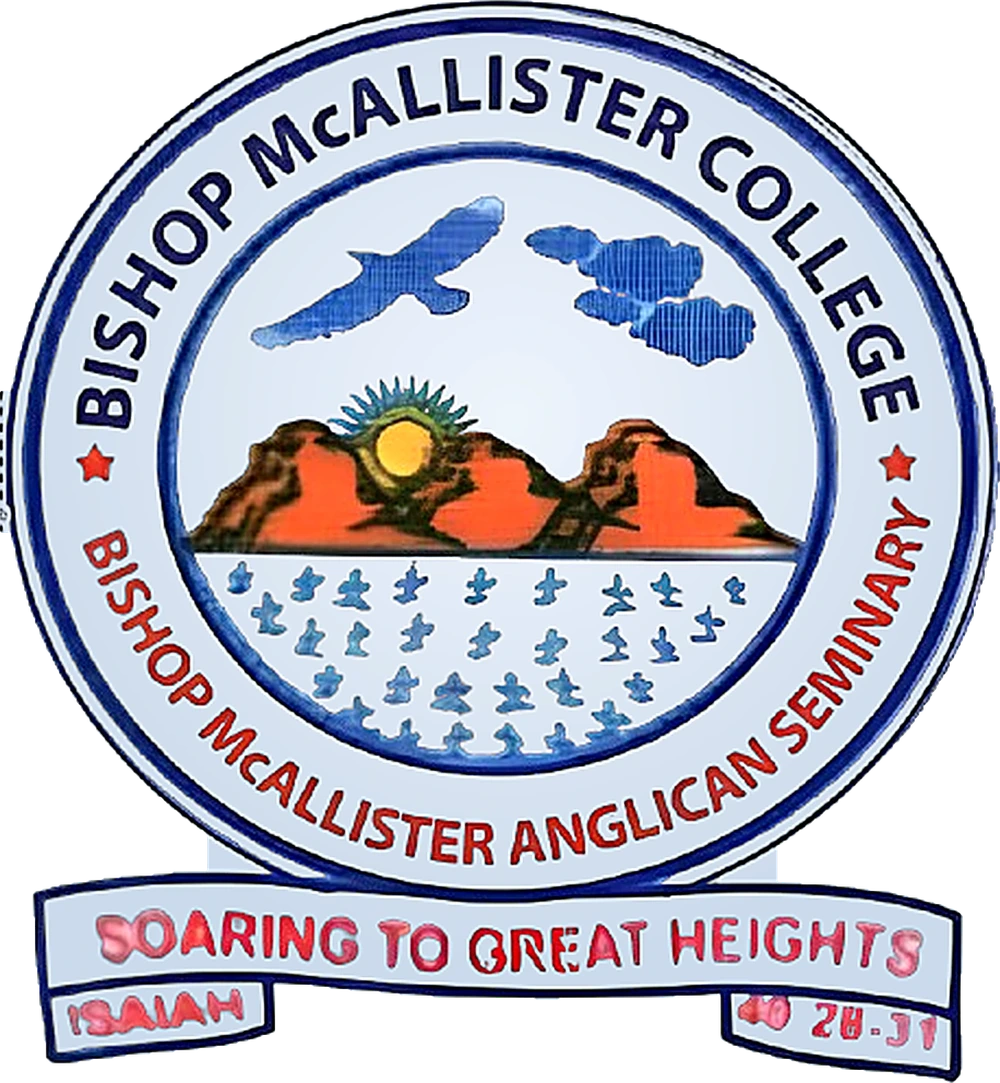
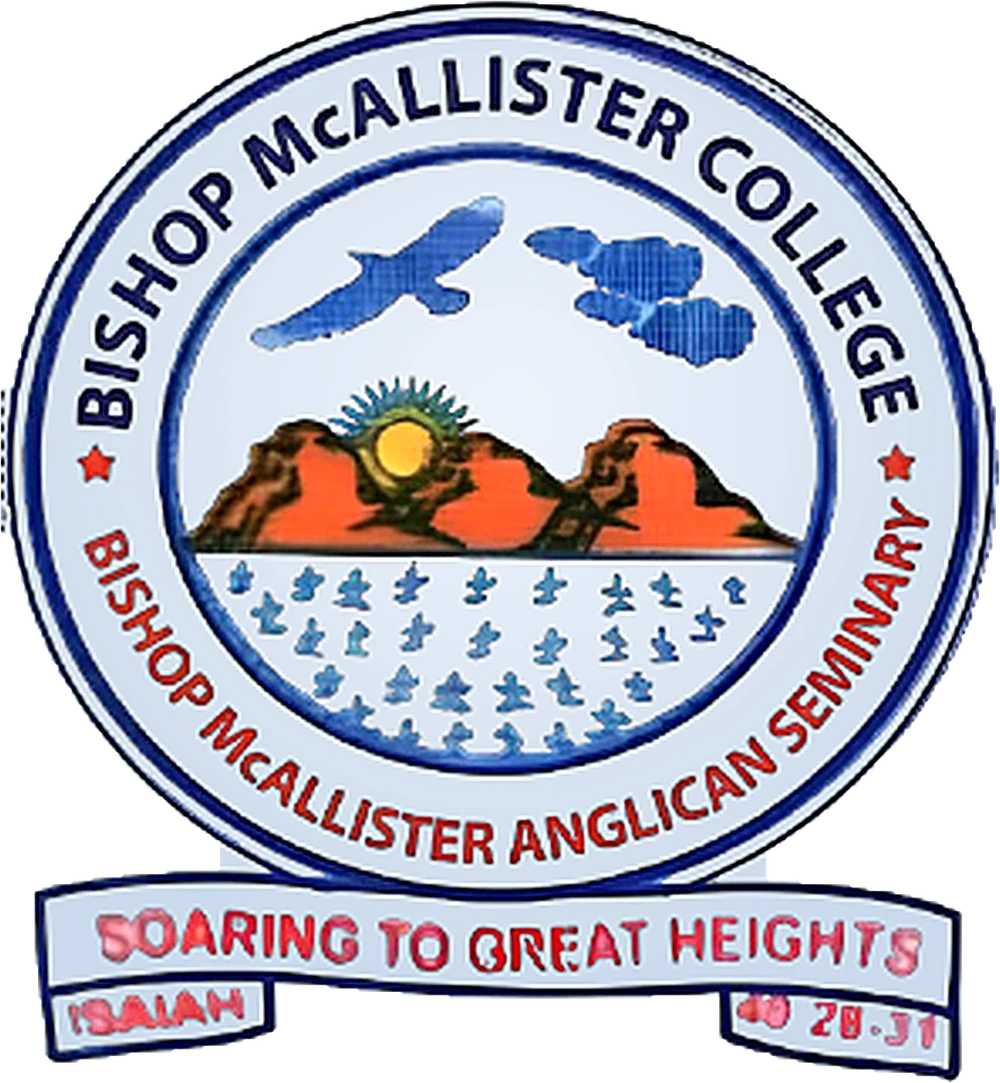
Use updated crest image

diff --git a/index.html b/index.html
@@ -12,7 +12,7 @@
 <link rel="preconnect" href="https://fonts.googleapis.com">
 <link rel="preconnect" href="https://fonts.gstatic.com" crossorigin>
 <link href="https://fonts.googleapis.com/css2?family=Fraunces:ital,wght@0,400;0,500;0,600;0,700;1,500&family=Karla:wght@400;500;600;700;800&display=swap" rel="stylesheet">
-<link rel="stylesheet" href="assets/css/style.css?v=20260923g">
+<link rel="stylesheet" href="assets/css/style.css?v=20260923h">
 </head>
 <body>
 <a class="skip-link" href="#main">Skip to main content</a>
@@ -20,7 +20,7 @@
 <header class="site-header">
   <div class="container nav-bar">
     <a class="brand" href="index.html">
-      <img src="assets/images/bmck-crest-sm.webp?v=20260923g" alt="Bishop McAllister College Kyogyera crest" width="44" height="44">
+      <img src="assets/images/bmck-crest-sm.webp?v=20260923h" alt="Bishop McAllister College Kyogyera crest" width="44" height="44">
       <span class="brand-text"><strong>Bishop McAllister College</strong><span>Kyogyera &middot; Est. 1983</span></span>
     </a>
     <nav class="nav-links" id="nav-links">
@@ -61,7 +61,7 @@
       </div>
       <div class="hero-crest-wrap">
         <div class="hero-crest-glow" aria-hidden="true"></div>
-        <img class="hero-crest" src="assets/images/bmck-crest-hd.webp?v=20260923g" alt="Bishop McAllister College crest: a soaring bird over the hills of western Uganda, with a rising sun and the school motto">
+        <img class="hero-crest" src="assets/images/bmck-crest-hd.webp?v=20260923h" alt="Bishop McAllister College crest: a soaring bird over the hills of western Uganda, with a rising sun and the school motto">
       </div>
     </div>
     <div class="ridge" aria-hidden="true">
@@ -93,7 +93,7 @@
         </a>
       </div>
       <div class="badge-figure reveal">
-        <img src="assets/images/bmck-crest-hd.webp?v=20260923g" alt="Bishop McAllister College crest">
+        <img src="assets/images/bmck-crest-hd.webp?v=20260923h" alt="Bishop McAllister College crest">
       </div>
     </div>
   </section>
@@ -278,7 +278,7 @@
     <div class="footer-grid">
       <div>
         <div class="footer-brand">
-          <img src="assets/images/bmck-crest-sm.webp?v=20260923g" alt="BMCK crest">
+          <img src="assets/images/bmck-crest-sm.webp?v=20260923h" alt="BMCK crest">
           <span><strong>Bishop McAllister College</strong><span>Kyogyera Anglican Seminary</span></span>
         </div>
         <p>A Christ-centred, co-educational boarding secondary school in Kyogyera, western Uganda &mdash; founded 1983 by the Anglican Diocese of West Ankole.</p>
@@ -333,6 +333,6 @@
 
 <button class="to-top" aria-label="Back to top"><svg viewBox="0 0 24 24" fill="none" stroke="currentColor" stroke-width="2" stroke-linecap="round" stroke-linejoin="round"><path d="M12 19V5M5 12l7-7 7 7"/></svg></button>
 
-<script src="assets/js/main.js?v=20260923g"></script>
+<script src="assets/js/main.js?v=20260923h"></script>
 </body>
 </html>

diff --git a/memories.html b/memories.html
@@ -12,7 +12,7 @@
 <link rel="preconnect" href="https://fonts.googleapis.com">
 <link rel="preconnect" href="https://fonts.gstatic.com" crossorigin>
 <link href="https://fonts.googleapis.com/css2?family=Fraunces:ital,wght@0,400;0,500;0,600;0,700;1,500&family=Karla:wght@400;500;600;700;800&display=swap" rel="stylesheet">
-<link rel="stylesheet" href="assets/css/style.css?v=20260923g">
+<link rel="stylesheet" href="assets/css/style.css?v=20260923h">
 </head>
 <body>
 <a class="skip-link" href="#main">Skip to main content</a>
@@ -20,7 +20,7 @@
 <header class="site-header">
   <div class="container nav-bar">
     <a class="brand" href="index.html">
-      <img src="assets/images/bmck-crest-sm.webp?v=20260923g" alt="Bishop McAllister College Kyogyera crest" width="44" height="44">
+      <img src="assets/images/bmck-crest-sm.webp?v=20260923h" alt="Bishop McAllister College Kyogyera crest" width="44" height="44">
       <span class="brand-text"><strong>Bishop McAllister College</strong><span>Kyogyera &middot; Est. 1983</span></span>
     </a>
     <nav class="nav-links" id="nav-links">
@@ -89,7 +89,7 @@
   <section class="section-tight">
     <div class="container">
       <div class="mem-intro reveal">
-        <img src="assets/images/bmck-crest-sm.webp?v=20260923g" alt="Bishop McAllister College Kyogyera crest" width="120" height="120">
+        <img src="assets/images/bmck-crest-sm.webp?v=20260923h" alt="Bishop McAllister College Kyogyera crest" width="120" height="120">
         <p>&ldquo;They shall mount up with wings as eagles; they shall run, and not be weary.&rdquo; Many of us have run up and down this hill, in the Resurrection Race, to chapel and to the pitch. These are some of those moments.
           <cite>Isaiah 40:31 &middot; Soaring to Great Heights</cite></p>
       </div>
@@ -417,7 +417,7 @@
     <div class="footer-grid">
       <div>
         <div class="footer-brand">
-          <img src="assets/images/bmck-crest-sm.webp?v=20260923g" alt="BMCK crest">
+          <img src="assets/images/bmck-crest-sm.webp?v=20260923h" alt="BMCK crest">
           <span><strong>Bishop McAllister College</strong><span>Kyogyera Anglican Seminary</span></span>
         </div>
         <p>A Christ-centred, co-educational boarding secondary school in Kyogyera, western Uganda &mdash; founded 1983 by the Anglican Diocese of West Ankole.</p>
@@ -472,7 +472,7 @@
 
 <button class="to-top" aria-label="Back to top"><svg viewBox="0 0 24 24" fill="none" stroke="currentColor" stroke-width="2" stroke-linecap="round" stroke-linejoin="round"><path d="M12 19V5M5 12l7-7 7 7"/></svg></button>
 
-<script src="assets/js/main.js?v=20260923g"></script>
-<script src="assets/js/memories.js?v=20260923g"></script>
+<script src="assets/js/main.js?v=20260923h"></script>
+<script src="assets/js/memories.js?v=20260923h"></script>
 </body>
 </html>

diff --git a/about.html b/about.html
@@ -12,7 +12,7 @@
 <link rel="preconnect" href="https://fonts.googleapis.com">
 <link rel="preconnect" href="https://fonts.gstatic.com" crossorigin>
 <link href="https://fonts.googleapis.com/css2?family=Fraunces:ital,wght@0,400;0,500;0,600;0,700;1,500&family=Karla:wght@400;500;600;700;800&display=swap" rel="stylesheet">
-<link rel="stylesheet" href="assets/css/style.css?v=20260923g">
+<link rel="stylesheet" href="assets/css/style.css?v=20260923h">
 </head>
 <body>
 <a class="skip-link" href="#main">Skip to main content</a>
@@ -20,7 +20,7 @@
 <header class="site-header">
   <div class="container nav-bar">
     <a class="brand" href="index.html">
-      <img src="assets/images/bmck-crest-sm.webp?v=20260923g" alt="Bishop McAllister College Kyogyera crest" width="44" height="44">
+      <img src="assets/images/bmck-crest-sm.webp?v=20260923h" alt="Bishop McAllister College Kyogyera crest" width="44" height="44">
       <span class="brand-text"><strong>Bishop McAllister College</strong><span>Kyogyera &middot; Est. 1983</span></span>
     </a>
     <nav class="nav-links" id="nav-links">
@@ -146,7 +146,7 @@
   <section class="section">
     <div class="container split">
       <div class="badge-figure reveal" style="order:2;">
-        <img src="assets/images/bmck-crest-hd.webp?v=20260923g" alt="Bishop McAllister College crest with bird, hills, sun and crosses">
+        <img src="assets/images/bmck-crest-hd.webp?v=20260923h" alt="Bishop McAllister College crest with bird, hills, sun and crosses">
       </div>
       <div class="reveal" style="order:1;">
         <span class="eyebrow">Our Crest &amp; Motto</span>
@@ -234,7 +234,7 @@
     <div class="footer-grid">
       <div>
         <div class="footer-brand">
-          <img src="assets/images/bmck-crest-sm.webp?v=20260923g" alt="BMCK crest">
+          <img src="assets/images/bmck-crest-sm.webp?v=20260923h" alt="BMCK crest">
           <span><strong>Bishop McAllister College</strong><span>Kyogyera Anglican Seminary</span></span>
         </div>
         <p>A Christ-centred, co-educational boarding secondary school in Kyogyera, western Uganda &mdash; founded 1983 by the Anglican Diocese of West Ankole.</p>
@@ -281,6 +281,6 @@
 
 <button class="to-top" aria-label="Back to top"><svg viewBox="0 0 24 24" fill="none" stroke="currentColor" stroke-width="2" stroke-linecap="round" stroke-linejoin="round"><path d="M12 19V5M5 12l7-7 7 7"/></svg></button>
 
-<script src="assets/js/main.js?v=20260923g"></script>
+<script src="assets/js/main.js?v=20260923h"></script>
 </body>
 </html>

diff --git a/academics.html b/academics.html
@@ -12,7 +12,7 @@
 <link rel="preconnect" href="https://fonts.googleapis.com">
 <link rel="preconnect" href="https://fonts.gstatic.com" crossorigin>
 <link href="https://fonts.googleapis.com/css2?family=Fraunces:ital,wght@0,400;0,500;0,600;0,700;1,500&family=Karla:wght@400;500;600;700;800&display=swap" rel="stylesheet">
-<link rel="stylesheet" href="assets/css/style.css?v=20260923g">
+<link rel="stylesheet" href="assets/css/style.css?v=20260923h">
 </head>
 <body>
 <a class="skip-link" href="#main">Skip to main content</a>
@@ -20,7 +20,7 @@
 <header class="site-header">
   <div class="container nav-bar">
     <a class="brand" href="index.html">
-      <img src="assets/images/bmck-crest-sm.webp?v=20260923g" alt="Bishop McAllister College Kyogyera crest" width="44" height="44">
+      <img src="assets/images/bmck-crest-sm.webp?v=20260923h" alt="Bishop McAllister College Kyogyera crest" width="44" height="44">
       <span class="brand-text"><strong>Bishop McAllister College</strong><span>Kyogyera &middot; Est. 1983</span></span>
     </a>
     <nav class="nav-links" id="nav-links">
@@ -222,7 +222,7 @@
     <div class="footer-grid">
       <div>
         <div class="footer-brand">
-          <img src="assets/images/bmck-crest-sm.webp?v=20260923g" alt="BMCK crest">
+          <img src="assets/images/bmck-crest-sm.webp?v=20260923h" alt="BMCK crest">
           <span><strong>Bishop McAllister College</strong><span>Kyogyera Anglican Seminary</span></span>
         </div>
         <p>A Christ-centred, co-educational boarding secondary school in Kyogyera, western Uganda &mdash; founded 1983 by the Anglican Diocese of West Ankole.</p>
@@ -269,6 +269,6 @@
 
 <button class="to-top" aria-label="Back to top"><svg viewBox="0 0 24 24" fill="none" stroke="currentColor" stroke-width="2" stroke-linecap="round" stroke-linejoin="round"><path d="M12 19V5M5 12l7-7 7 7"/></svg></button>
 
-<script src="assets/js/main.js?v=20260923g"></script>
+<script src="assets/js/main.js?v=20260923h"></script>
 </body>
 </html>

diff --git a/admissions.html b/admissions.html
@@ -12,7 +12,7 @@
 <link rel="preconnect" href="https://fonts.googleapis.com">
 <link rel="preconnect" href="https://fonts.gstatic.com" crossorigin>
 <link href="https://fonts.googleapis.com/css2?family=Fraunces:ital,wght@0,400;0,500;0,600;0,700;1,500&family=Karla:wght@400;500;600;700;800&display=swap" rel="stylesheet">
-<link rel="stylesheet" href="assets/css/style.css?v=20260923g">
+<link rel="stylesheet" href="assets/css/style.css?v=20260923h">
 </head>
 <body>
 <a class="skip-link" href="#main">Skip to main content</a>
@@ -20,7 +20,7 @@
 <header class="site-header">
   <div class="container nav-bar">
     <a class="brand" href="index.html">
-      <img src="assets/images/bmck-crest-sm.webp?v=20260923g" alt="Bishop McAllister College Kyogyera crest" width="44" height="44">
+      <img src="assets/images/bmck-crest-sm.webp?v=20260923h" alt="Bishop McAllister College Kyogyera crest" width="44" height="44">
       <span class="brand-text"><strong>Bishop McAllister College</strong><span>Kyogyera &middot; Est. 1983</span></span>
     </a>
     <nav class="nav-links" id="nav-links">
@@ -257,7 +257,7 @@
     <div class="footer-grid">
       <div>
         <div class="footer-brand">
-          <img src="assets/images/bmck-crest-sm.webp?v=20260923g" alt="BMCK crest">
+          <img src="assets/images/bmck-crest-sm.webp?v=20260923h" alt="BMCK crest">
           <span><strong>Bishop McAllister College</strong><span>Kyogyera Anglican Seminary</span></span>
         </div>
         <p>A Christ-centred, co-educational boarding secondary school in Kyogyera, western Uganda &mdash; founded 1983 by the Anglican Diocese of West Ankole.</p>
@@ -304,6 +304,6 @@
 
 <button class="to-top" aria-label="Back to top"><svg viewBox="0 0 24 24" fill="none" stroke="currentColor" stroke-width="2" stroke-linecap="round" stroke-linejoin="round"><path d="M12 19V5M5 12l7-7 7 7"/></svg></button>
 
-<script src="assets/js/main.js?v=20260923g"></script>
+<script src="assets/js/main.js?v=20260923h"></script>
 </body>
 </html>

diff --git a/contact.html b/contact.html
@@ -12,7 +12,7 @@
 <link rel="preconnect" href="https://fonts.googleapis.com">
 <link rel="preconnect" href="https://fonts.gstatic.com" crossorigin>
 <link href="https://fonts.googleapis.com/css2?family=Fraunces:ital,wght@0,400;0,500;0,600;0,700;1,500&family=Karla:wght@400;500;600;700;800&display=swap" rel="stylesheet">
-<link rel="stylesheet" href="assets/css/style.css?v=20260923g">
+<link rel="stylesheet" href="assets/css/style.css?v=20260923h">
 </head>
 <body>
 <a class="skip-link" href="#main">Skip to main content</a>
@@ -20,7 +20,7 @@
 <header class="site-header">
   <div class="container nav-bar">
     <a class="brand" href="index.html">
-      <img src="assets/images/bmck-crest-sm.webp?v=20260923g" alt="Bishop McAllister College Kyogyera crest" width="44" height="44">
+      <img src="assets/images/bmck-crest-sm.webp?v=20260923h" alt="Bishop McAllister College Kyogyera crest" width="44" height="44">
       <span class="brand-text"><strong>Bishop McAllister College</strong><span>Kyogyera &middot; Est. 1983</span></span>
     </a>
     <nav class="nav-links" id="nav-links">
@@ -137,7 +137,7 @@
     <div class="footer-grid">
       <div>
         <div class="footer-brand">
-          <img src="assets/images/bmck-crest-sm.webp?v=20260923g" alt="BMCK crest">
+          <img src="assets/images/bmck-crest-sm.webp?v=20260923h" alt="BMCK crest">
           <span><strong>Bishop McAllister College</strong><span>Kyogyera Anglican Seminary</span></span>
         </div>
         <p>A Christ-centred, co-educational boarding secondary school in Kyogyera, western Uganda &mdash; founded 1983 by the Anglican Diocese of West Ankole.</p>
@@ -184,6 +184,6 @@
 
 <button class="to-top" aria-label="Back to top"><svg viewBox="0 0 24 24" fill="none" stroke="currentColor" stroke-width="2" stroke-linecap="round" stroke-linejoin="round"><path d="M12 19V5M5 12l7-7 7 7"/></svg></button>
 
-<script src="assets/js/main.js?v=20260923g"></script>
+<script src="assets/js/main.js?v=20260923h"></script>
 </body>
 </html>

diff --git a/gallery.html b/gallery.html
@@ -12,7 +12,7 @@
 <link rel="preconnect" href="https://fonts.googleapis.com">
 <link rel="preconnect" href="https://fonts.gstatic.com" crossorigin>
 <link href="https://fonts.googleapis.com/css2?family=Fraunces:ital,wght@0,400;0,500;0,600;0,700;1,500&family=Karla:wght@400;500;600;700;800&display=swap" rel="stylesheet">
-<link rel="stylesheet" href="assets/css/style.css?v=20260923g">
+<link rel="stylesheet" href="assets/css/style.css?v=20260923h">
 </head>
 <body>
 <a class="skip-link" href="#main">Skip to main content</a>
@@ -20,7 +20,7 @@
 <header class="site-header">
   <div class="container nav-bar">
     <a class="brand" href="index.html">
-      <img src="assets/images/bmck-crest-sm.webp?v=20260923g" alt="Bishop McAllister College Kyogyera crest" width="44" height="44">
+      <img src="assets/images/bmck-crest-sm.webp?v=20260923h" alt="Bishop McAllister College Kyogyera crest" width="44" height="44">
       <span class="brand-text"><strong>Bishop McAllister College</strong><span>Kyogyera &middot; Est. 1983</span></span>
     </a>
     <nav class="nav-links" id="nav-links">
@@ -126,7 +126,7 @@
     <div class="footer-grid">
       <div>
         <div class="footer-brand">
-          <img src="assets/images/bmck-crest-sm.webp?v=20260923g" alt="BMCK crest">
+          <img src="assets/images/bmck-crest-sm.webp?v=20260923h" alt="BMCK crest">
           <span><strong>Bishop McAllister College</strong><span>Kyogyera Anglican Seminary</span></span>
         </div>
         <p>A Christ-centred, co-educational boarding secondary school in Kyogyera, western Uganda &mdash; founded 1983 by the Anglican Diocese of West Ankole.</p>
@@ -181,6 +181,6 @@
 
 <button class="to-top" aria-label="Back to top"><svg viewBox="0 0 24 24" fill="none" stroke="currentColor" stroke-width="2" stroke-linecap="round" stroke-linejoin="round"><path d="M12 19V5M5 12l7-7 7 7"/></svg></button>
 
-<script src="assets/js/main.js?v=20260923g"></script>
+<script src="assets/js/main.js?v=20260923h"></script>
 </body>
 </html>

diff --git a/news.html b/news.html
@@ -12,7 +12,7 @@
 <link rel="preconnect" href="https://fonts.googleapis.com">
 <link rel="preconnect" href="https://fonts.gstatic.com" crossorigin>
 <link href="https://fonts.googleapis.com/css2?family=Fraunces:ital,wght@0,400;0,500;0,600;0,700;1,500&family=Karla:wght@400;500;600;700;800&display=swap" rel="stylesheet">
-<link rel="stylesheet" href="assets/css/style.css?v=20260923g">
+<link rel="stylesheet" href="assets/css/style.css?v=20260923h">
 </head>
 <body>
 <a class="skip-link" href="#main">Skip to main content</a>
@@ -20,7 +20,7 @@
 <header class="site-header">
   <div class="container nav-bar">
     <a class="brand" href="index.html">
-      <img src="assets/images/bmck-crest-sm.webp?v=20260923g" alt="Bishop McAllister College Kyogyera crest" width="44" height="44">
+      <img src="assets/images/bmck-crest-sm.webp?v=20260923h" alt="Bishop McAllister College Kyogyera crest" width="44" height="44">
       <span class="brand-text"><strong>Bishop McAllister College</strong><span>Kyogyera &middot; Est. 1983</span></span>
     </a>
     <nav class="nav-links" id="nav-links">
@@ -120,7 +120,7 @@
     <div class="footer-grid">
       <div>
         <div class="footer-brand">
-          <img src="assets/images/bmck-crest-sm.webp?v=20260923g" alt="BMCK crest">
+          <img src="assets/images/bmck-crest-sm.webp?v=20260923h" alt="BMCK crest">
           <span><strong>Bishop McAllister College</strong><span>Kyogyera Anglican Seminary</span></span>
         </div>
         <p>A Christ-centred, co-educational boarding secondary school in Kyogyera, western Uganda &mdash; founded 1983 by the Anglican Diocese of West Ankole.</p>
@@ -167,6 +167,6 @@
 
 <button class="to-top" aria-label="Back to top"><svg viewBox="0 0 24 24" fill="none" stroke="currentColor" stroke-width="2" stroke-linecap="round" stroke-linejoin="round"><path d="M12 19V5M5 12l7-7 7 7"/></svg></button>
 
-<script src="assets/js/main.js?v=20260923g"></script>
+<script src="assets/js/main.js?v=20260923h"></script>
 </body>
 </html>

diff --git a/staff.html b/staff.html
@@ -12,7 +12,7 @@
 <link rel="preconnect" href="https://fonts.googleapis.com">
 <link rel="preconnect" href="https://fonts.gstatic.com" crossorigin>
 <link href="https://fonts.googleapis.com/css2?family=Fraunces:ital,wght@0,400;0,500;0,600;0,700;1,500&family=Karla:wght@400;500;600;700;800&display=swap" rel="stylesheet">
-<link rel="stylesheet" href="assets/css/style.css?v=20260923g">
+<link rel="stylesheet" href="assets/css/style.css?v=20260923h">
 </head>
 <body>
 <a class="skip-link" href="#main">Skip to main content</a>
@@ -20,7 +20,7 @@
 <header class="site-header">
   <div class="container nav-bar">
     <a class="brand" href="index.html">
-      <img src="assets/images/bmck-crest-sm.webp?v=20260923g" alt="Bishop McAllister College Kyogyera crest" width="44" height="44">
+      <img src="assets/images/bmck-crest-sm.webp?v=20260923h" alt="Bishop McAllister College Kyogyera crest" width="44" height="44">
       <span class="brand-text"><strong>Bishop McAllister College</strong><span>Kyogyera &middot; Est. 1983</span></span>
     </a>
     <nav class="nav-links" id="nav-links">
@@ -184,7 +184,7 @@
     <div class="footer-grid">
       <div>
         <div class="footer-brand">
-          <img src="assets/images/bmck-crest-sm.webp?v=20260923g" alt="BMCK crest">
+          <img src="assets/images/bmck-crest-sm.webp?v=20260923h" alt="BMCK crest">
           <span><strong>Bishop McAllister College</strong><span>Kyogyera Anglican Seminary</span></span>
         </div>
         <p>A Christ-centred, co-educational boarding secondary school in Kyogyera, western Uganda &mdash; founded 1983 by the Anglican Diocese of West Ankole.</p>
@@ -231,6 +231,6 @@
 
 <button class="to-top" aria-label="Back to top"><svg viewBox="0 0 24 24" fill="none" stroke="currentColor" stroke-width="2" stroke-linecap="round" stroke-linejoin="round"><path d="M12 19V5M5 12l7-7 7 7"/></svg></button>
 
-<script src="assets/js/main.js?v=20260923g"></script>
+<script src="assets/js/main.js?v=20260923h"></script>
 </body>
 </html>
